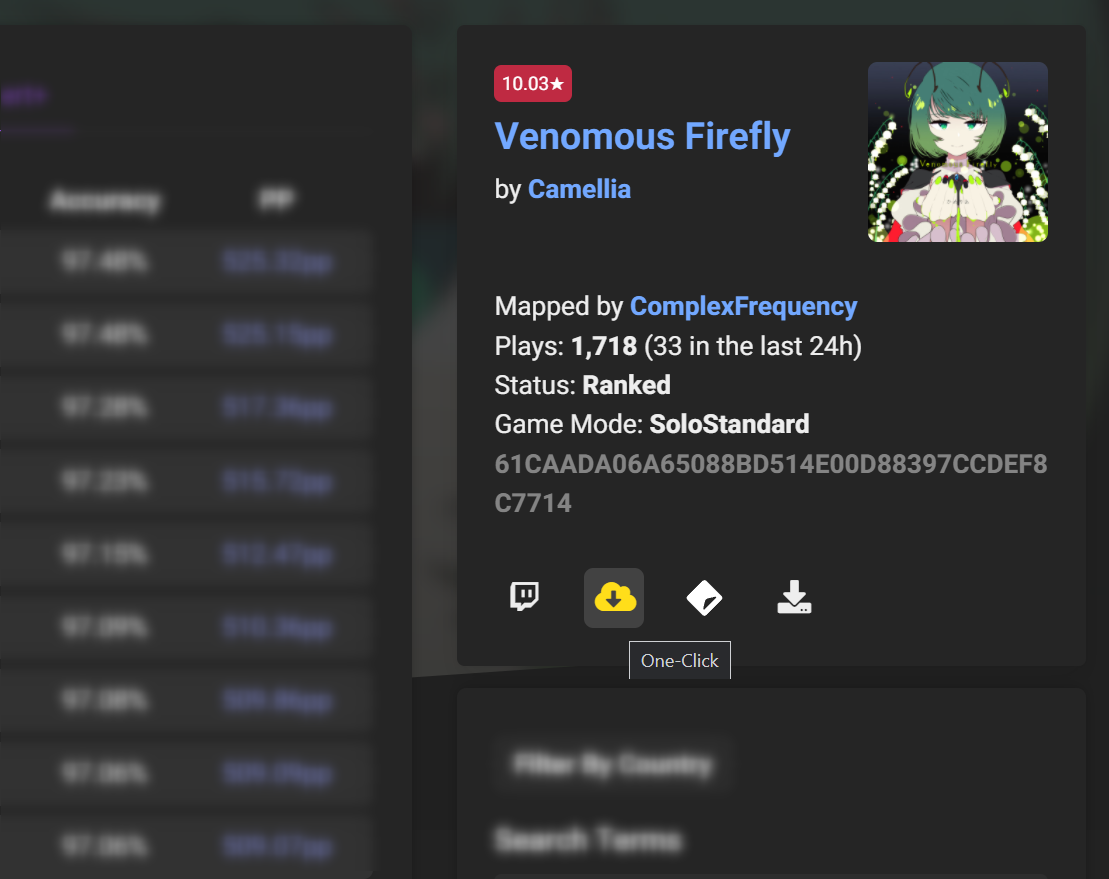
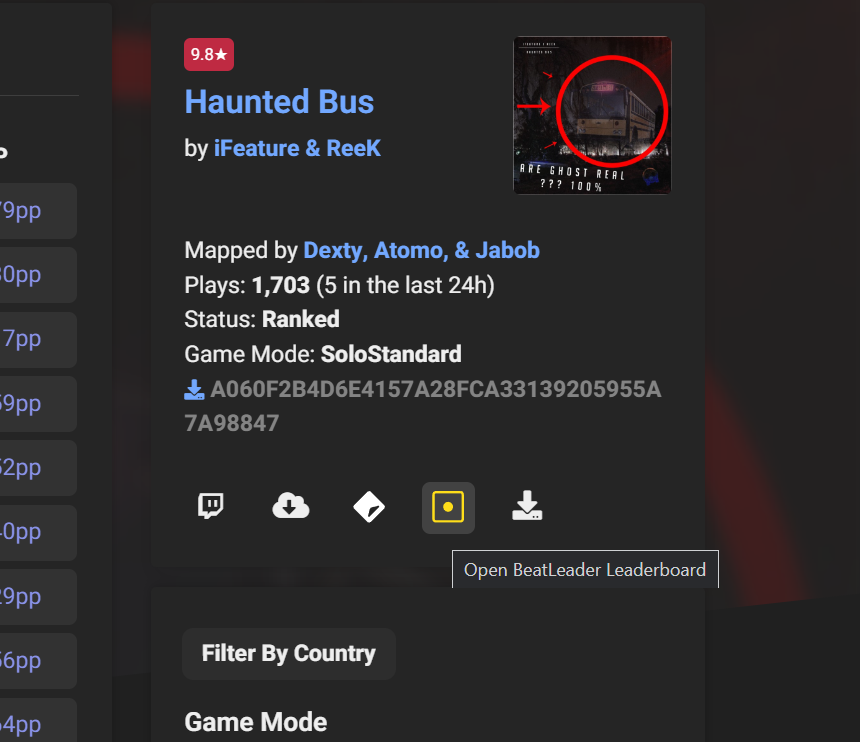
Added beatleader support

diff --git a/index.js b/index.js
@@ -24,41 +24,52 @@ async function load() {
     // Get leaderboard id from url
     const leaderboardId = window.location.pathname.split('/').pop();
     if (leaderboardId == null) {
+        log(`Failed to get leaderboard ID from URL ${window.location.pathname}`);
         return;
     }
 
     // Get leaderboardInfos from scoresaber leaderboard api
     const leaderboardInfos = await fetchLeaderboardInfos(leaderboardId);
     if (leaderboardInfos == null) {
+        log(`Failed to get leaderboard information from URL ${SCORESABER_LEADERBOARD_API.replace('{0}', leaderboardId)}`);
         return;
     }
 
     // Get the songHash from the leaderboardInfos
-    const songHash = leaderboardInfos.songHash;
+    const songHash = leaderboardInfos.songHash?.toLowerCase();
     if (!songHash) {
+        log(`Couldn't find song hash in leaderboard information:`, leaderboardInfos);
         return;
     }
-    const beatsaverURL = BEATSAVER_API.replace('{0}', songHash);
-    const downloadURL = `https://eu.cdn.beatsaver.com/${songHash.toLowerCase()}.zip`;
 
     // Get the beatmap from beatsaver api
-    const beatmap = await fetchBeatmap(beatsaverURL);
+    const beatsaverURL = BEATSAVER_API.replace('{0}', songHash);
+    const beatleaderUIDFetchURL = `https://beatsaver.com/api/scores/${songHash}/1?difficulty=${leaderboardInfos.difficulty.difficulty}&type=BeatLeader`; // "?difficulty=9&gameMode=0&type=BeatLeader"
+    const [{ value: beatleader }, { value: beatmap }] = await Promise.allSettled([
+        safeFetch(beatleaderUIDFetchURL),
+        safeFetch(beatsaverURL),
+    ]);
     if (beatmap == null) {
+        log(`Failed to get beatsaver data from URL:`, beatsaverURL);
         return;
     }
 
     const beatKey = beatmap.id;
     if (beatKey == null) {
+        log(`Failed to get map bsr code from beatsaver data:`, beatmap, beatsaverURL);
         return;
     }
 
     const quickInstallURL = QUICK_INSTALL_URL.replace('{0}', beatKey);
     const bsrCopy = `!bsr ${beatKey}`;
     const beatsaverPage = `https://beatsaver.com/maps/${beatKey}`;
+    const beatleaderLeaderboardURL = beatleader.uid ? `https://www.beatleader.xyz/leaderboard/global/${beatleader.uid}` : null;
+    const downloadURL = `https://eu.cdn.beatsaver.com/${songHash}.zip`;
 
     log(beatsaverURL);
     log(downloadURL);
     log(quickInstallURL);
+    log(beatleaderLeaderboardURL);
     log(bsrCopy);
 
     // Add buttons
@@ -81,6 +92,19 @@ async function load() {
         </svg>
         </div>`;
         const downloadButtonHTML = `<div class="download" title="Download Files"><i class="fas fa-download"></i></div>`;
+        const beatleaderLeaderboardHTML = `<div class="beatleader" title="Open BeatLeader Leaderboard"><svg width="269" height="254" viewBox="0 0 269 254" fill="none" xmlns="http://www.w3.org/2000/svg">
+        <g clip-path="url(#clip0_761_37)">
+        <path d="M173.792 133.373C177.331 111.567 162.522 91.0201 140.716 87.481C118.91 83.942 98.3631 98.7506 94.824 120.557C91.285 142.363 106.094 162.91 127.9 166.449C149.706 169.988 170.253 155.179 173.792 133.373Z" fill="white"/>
+        <path d="M233.3 19.2C238.2 19.2 242.1 23.2 242.1 28V225.8C242.1 230.7 238.1 234.6 233.3 234.6H35.3999C30.4999 234.6 26.5999 230.6 26.5999 225.8V28C26.5999 23.1 30.5999 19.2 35.3999 19.2H233.3ZM233.3 0H35.3999C19.8999 0 7.3999 12.5 7.3999 28V225.9C7.3999 241.4 19.8999 253.9 35.3999 253.9H233.3C248.8 253.9 261.3 241.4 261.3 225.9V28C261.3 12.5 248.7 0 233.3 0Z" fill="white"/>
+        </g>
+        <defs>
+        <clipPath id="clip0_761_37">
+        <rect width="268.7" height="253.9" fill="white"/>
+        </clipPath>
+        </defs>
+        </svg>
+        </div>
+        `;
         buttonContainer.innerHTML = `
             <style>
                 .ssbtns-wrapper {
@@ -117,6 +141,7 @@ async function load() {
                 ${twitchButtonHTML}
                 ${quickInstallButtonHTML}
                 ${beatsaverButtonHTML}
+                ${beatleaderLeaderboardHTML}
                 ${downloadButtonHTML}
             </div>
         `;
@@ -126,6 +151,7 @@ async function load() {
         const quickInstallButton = buttonContainer.getElementsByClassName("quick")[0];
         const downloadButton = buttonContainer.getElementsByClassName("download")[0];
         const beatsaverButton = buttonContainer.getElementsByClassName("beatsaver")[0];
+        const beatleaderButton = buttonContainer.getElementsByClassName("beatleader")[0];
 
         twitchButton.addEventListener("click", () => {
             navigator.clipboard.writeText(bsrCopy);
@@ -141,6 +167,10 @@ async function load() {
 
         downloadButton.addEventListener("click", () => {
             window.open(downloadURL);
+        });
+
+        beatleaderButton.addEventListener("click", () => {
+            window.open(beatleaderLeaderboardURL);
         });
 
         return true;

diff --git a/js/util.js b/js/util.js
@@ -43,7 +43,7 @@ function fetchLeaderboardInfos(leaderboardId) {
  * Fetches the beatmap from beatsaver.
  * @returns {Promise<Object|null>} The beatmap or null if fetching didn't succeed.
  */
-function fetchBeatmap(beatsaverURL) {
+function safeFetch(beatsaverURL) {
     return new Promise(resolve => {
         fetch(beatsaverURL).then(response => response.json()).then(data => {
             if (data == null) {

diff --git a/background.js b/background.js
@@ -1,7 +1,7 @@
 
 // Open a sample page where the buttons are added after installation
 chrome.runtime.onInstalled.addListener(function() {
-    chrome.tabs.create({
-        url: 'https://scoresaber.com/leaderboard/371613',
-    });
+    // chrome.tabs.create({
+    //     url: 'https://scoresaber.com/leaderboard/371613',
+    // });
 });

diff --git a/README.md b/README.md
@@ -9,7 +9,7 @@
 
 
 # ScoreSaber Beatsaver Buttons
-Chrome extension that adds the one-click install, twitch !bsr, beatsaver link and download buttons to the ScoreSaber leaderboards.
+Chrome extension that adds a one-click install, twitch !bsr, BeatSaver/Beatleader link, and download button to the ScoreSaber leaderboards.
 
 
 # How to install
